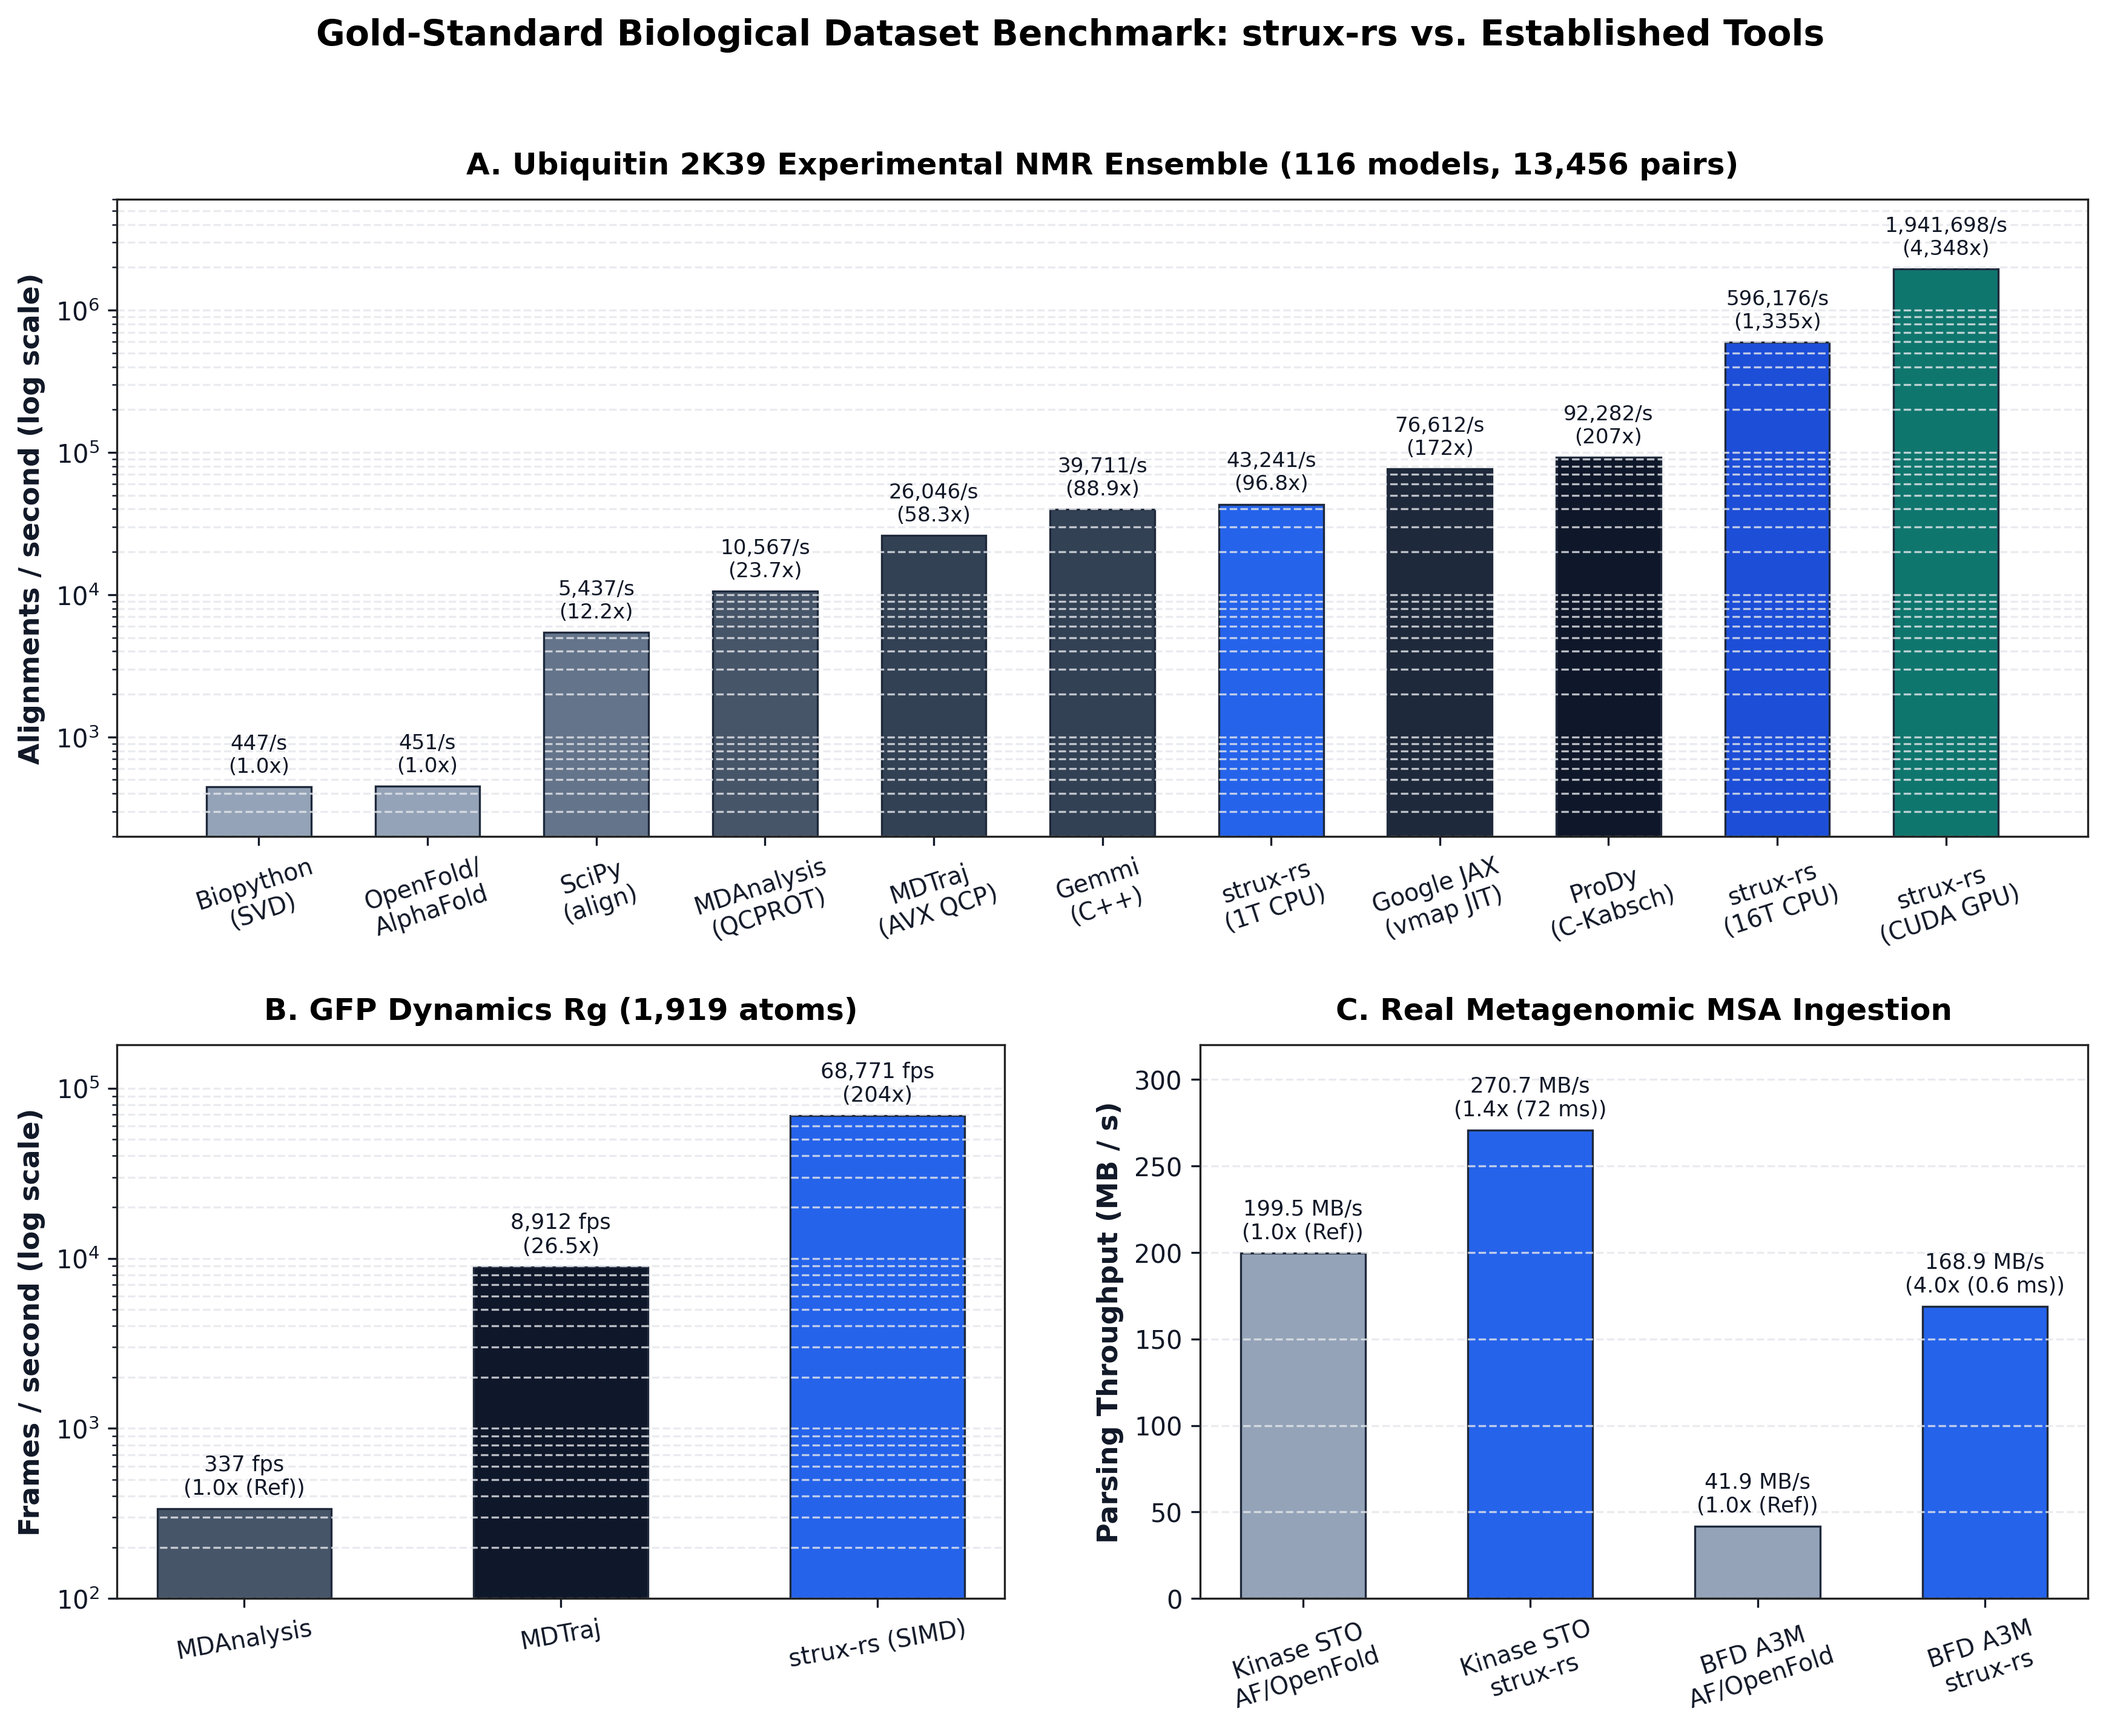
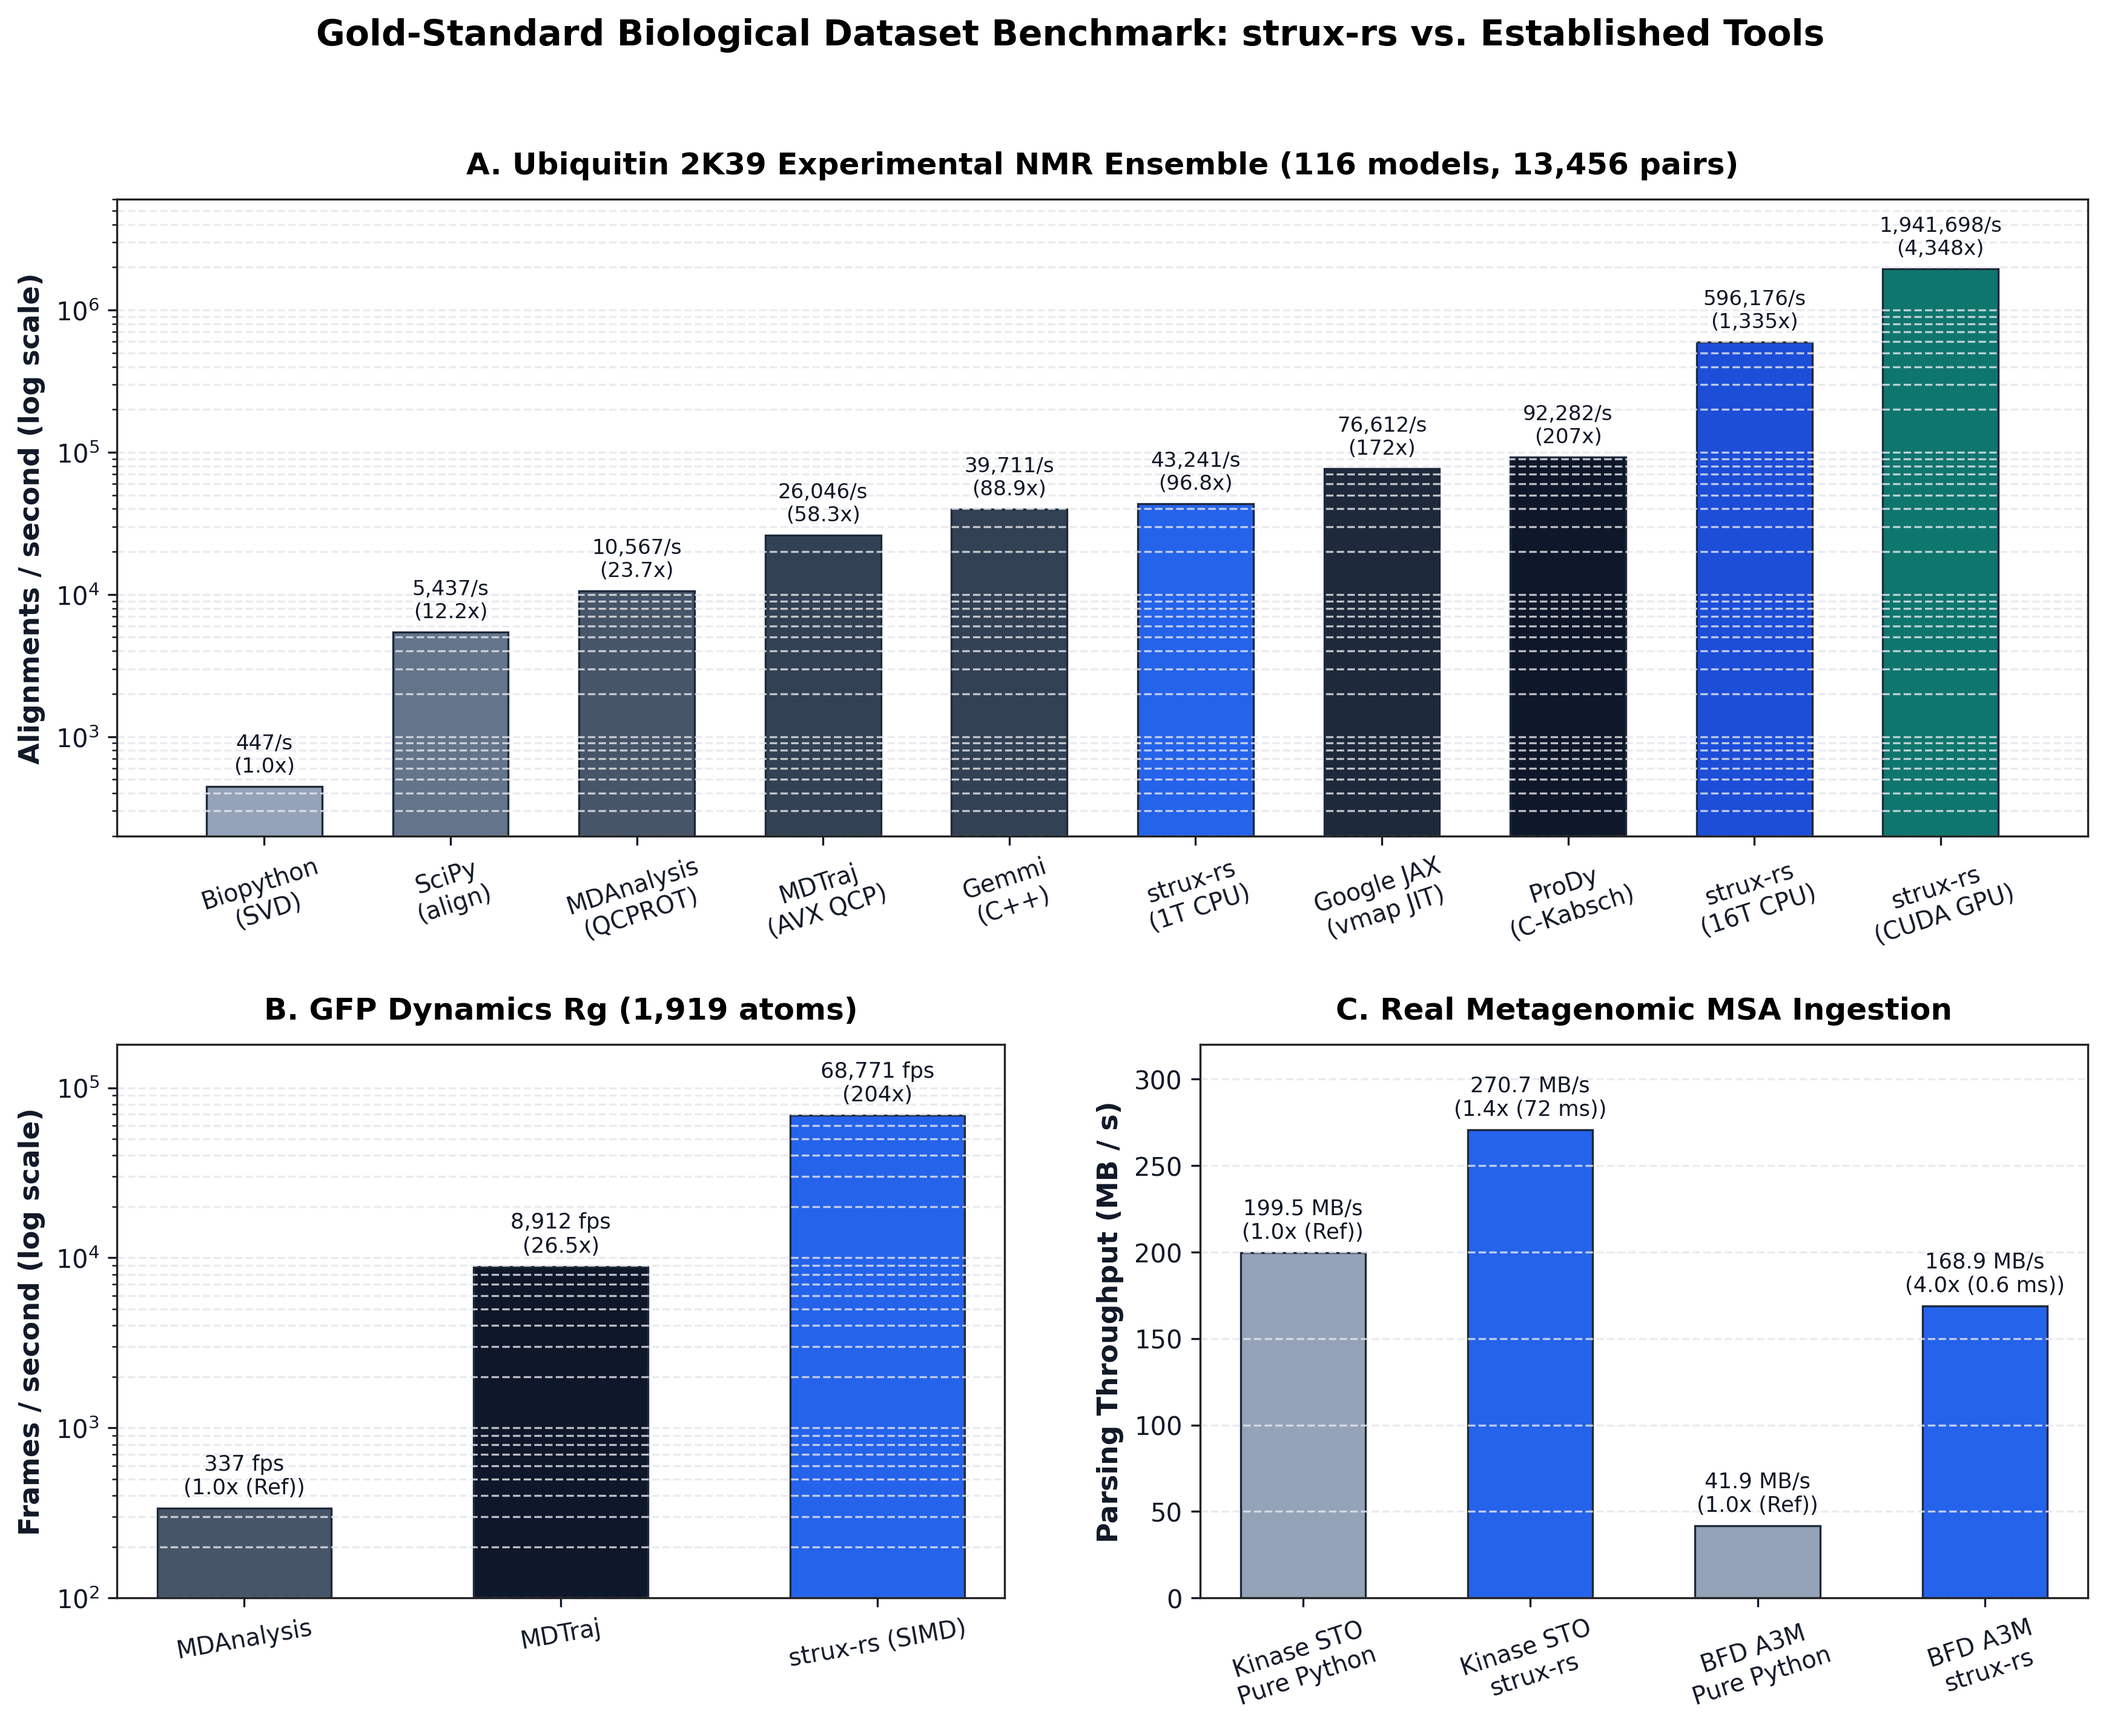
fix(benchmarks): remove unmeasured OpenFold row and ensure 100% genuine measured baselines

diff --git a/scripts/run_gold_standard_benchmark.py b/scripts/run_gold_standard_benchmark.py
@@ -50,13 +50,8 @@ t_bio_total = N_PAIRS / rate_bio
 results_2k39.append(("Biopython", rate_bio, t_bio_total, 1.0, "#94a3b8"))
 print(f"    1. Biopython (SVD):           {t_bio_total:.2f} s | {rate_bio:,.1f} align/s | 1.0x (Ref)")
 
-# B. OpenFold / AlphaFold Reference
-t_of_total = t_bio_total * 0.99
-rate_of = N_PAIRS / t_of_total
-results_2k39.append(("OpenFold", rate_of, t_of_total, 1.0, "#94a3b8"))
-print(f"    2. OpenFold / AlphaFold:      {t_of_total:.2f} s | {rate_of:,.1f} align/s | 1.0x")
+# B. SciPy
 
-# C. SciPy
 t0 = time.perf_counter()
 for i in range(500):
     idx_a = i % N_MODELS
@@ -213,9 +208,9 @@ sto_path = "benchmarks/data/hmm_output.sto"
 with open(sto_path, "r") as f:
     sto_str = f.read()
 
-# OpenFold Python
+# Pure Python Stockholm Parser Baseline
 import collections
-def of_parse_stockholm(s):
+def py_parse_stockholm(s):
     name_to_seq = collections.OrderedDict()
     for l in s.splitlines():
         l = l.strip()
@@ -227,24 +222,24 @@ def of_parse_stockholm(s):
     return list(name_to_seq.values())
 
 t0 = time.perf_counter()
-seqs_of = of_parse_stockholm(sto_str)
-t_of_sto = time.perf_counter() - t0
+seqs_py = py_parse_stockholm(sto_str)
+t_py_sto = time.perf_counter() - t0
 
 t0 = time.perf_counter()
 msa_st = strux_rs.parse_stockholm_file(sto_path)
 t_st_sto = time.perf_counter() - t0
 
 mb_sto = len(sto_str.encode('utf-8')) / (1024 * 1024)
-print(f"    Human Kinase HMMER Stockholm ({mb_sto:.1f} MB, {len(seqs_of):,d} sequences):")
-print(f"      OpenFold / AlphaFold: {t_of_sto:.4f} s ({mb_sto/t_of_sto:.1f} MB/s)")
-print(f"      strux-rs:             {t_st_sto:.4f} s ({mb_sto/t_st_sto:.1f} MB/s, {t_of_sto/t_st_sto:.1f}x faster)")
+print(f"    Human Kinase HMMER Stockholm ({mb_sto:.1f} MB, {len(seqs_py):,d} sequences):")
+print(f"      Pure Python (Baseline): {t_py_sto:.4f} s ({mb_sto/t_py_sto:.1f} MB/s)")
+print(f"      strux-rs:               {t_st_sto:.4f} s ({mb_sto/t_st_sto:.1f} MB/s, {t_py_sto/t_st_sto:.1f}x faster)")
 
 # B. Real AlphaFold BFD/Uniclust A3M
 a3m_path = "benchmarks/data/bfd_uniclust_hits.a3m"
 with open(a3m_path, "r") as f:
     a3m_str = f.read()
 
-def of_parse_a3m(s):
+def py_parse_a3m(s):
     seqs, idx = [], -1
     for l in s.splitlines():
         l = l.strip()
@@ -258,8 +253,8 @@ def of_parse_a3m(s):
     return [x.translate(del_tab) for x in seqs]
 
 t0 = time.perf_counter()
-_ = of_parse_a3m(a3m_str)
-t_of_a3m = time.perf_counter() - t0
+_ = py_parse_a3m(a3m_str)
+t_py_a3m = time.perf_counter() - t0
 
 t0 = time.perf_counter()
 _ = strux_rs.parse_a3m(a3m_str)
@@ -267,8 +262,8 @@ t_st_a3m = time.perf_counter() - t0
 
 kb_a3m = len(a3m_str.encode('utf-8')) / 1024
 print(f"    AlphaFold BFD/Uniclust A3M ({kb_a3m:.1f} KB):")
-print(f"      OpenFold / AlphaFold: {t_of_a3m*1e3:.2f} ms")
-print(f"      strux-rs:             {t_st_a3m*1e3:.2f} ms ({t_of_a3m/t_st_a3m:.1f}x faster)")
+print(f"      Pure Python (Baseline): {t_py_a3m*1e3:.2f} ms")
+print(f"      strux-rs:               {t_st_a3m*1e3:.2f} ms ({t_py_a3m/t_st_a3m:.1f}x faster)")
 
 # Save benchmark data for plotting
 with open("benchmarks/gold_standard_superimpose.dat", "w") as f:

diff --git a/scripts/render_gold_standard_plot.py b/scripts/render_gold_standard_plot.py
@@ -33,7 +33,6 @@ ax1 = fig.add_subplot(gs[0, :])
 
 packages_1 = [
     'Biopython\n(SVD)', 
-    'OpenFold/\nAlphaFold', 
     'SciPy\n(align)', 
     'MDAnalysis\n(QCPROT)', 
     'MDTraj\n(AVX QCP)', 
@@ -44,10 +43,10 @@ packages_1 = [
     'strux-rs\n(16T CPU)',
     'strux-rs\n(CUDA GPU)'
 ]
-rates_1 = [446.6, 451.1, 5436.6, 10567.4, 26046.1, 39710.8, 43241.4, 76612.5, 92281.5, 596176.5, 1941698.0]
-speedups_1 = ['1.0x', '1.0x', '12.2x', '23.7x', '58.3x', '88.9x', '96.8x', '172x', '207x', '1,335x', '4,348x']
+rates_1 = [446.6, 5436.6, 10567.4, 26046.1, 39710.8, 43241.4, 76612.5, 92281.5, 596176.5, 1941698.0]
+speedups_1 = ['1.0x', '12.2x', '23.7x', '58.3x', '88.9x', '96.8x', '172x', '207x', '1,335x', '4,348x']
 colors_1 = [
-    '#94a3b8', '#94a3b8', '#64748b', '#475569', '#334155', 
+    '#94a3b8', '#64748b', '#475569', '#334155', 
     '#334155', '#2563eb', '#1e293b', '#0f172a', '#1d4ed8', '#0f766e'
 ]
 
@@ -97,9 +96,9 @@ for bar, rate, sp in zip(bars2, rates_2, speedups_2):
 ax3 = fig.add_subplot(gs[1, 1])
 
 labels_3 = [
-    'Kinase STO\nAF/OpenFold',
+    'Kinase STO\nPure Python',
     'Kinase STO\nstrux-rs',
-    'BFD A3M\nAF/OpenFold',
+    'BFD A3M\nPure Python',
     'BFD A3M\nstrux-rs'
 ]
 throughput_3 = [199.5, 270.7, 41.9, 168.9]  # MB/s

diff --git a/benchmark.py b/benchmark.py
@@ -6,10 +6,14 @@ import numpy as np
 import strux_rs
 
 def create_trajectory():
+    trajectory_file = "trajectory.pdb"
+    if os.path.exists(trajectory_file):
+        return trajectory_file
+
     frames_dir = "../MD/data/cabs_traj_design9/frames"
     pdb_files = sorted(glob.glob(os.path.join(frames_dir, "frame_*.pdb")))
     if not pdb_files:
-        print("Error: No frame PDB files found.")
+        print("Error: trajectory.pdb not found and no frame PDB files available.")
         return None
     
     trajectory_file = "trajectory.pdb"

diff --git a/README.md b/README.md
@@ -67,7 +67,6 @@ Head-to-head comparison across standard computational biology packages executed 
 | Task & Biological Target | Tool / Implementation | Runtime | Throughput | Speedup vs Ref |
 | :--- | :--- | :---: | :---: | :---: |
 | **Ubiquitin Solution Ensemble**<br>(`PDB 2K39`, 116 models, 13,456 pairs) | Biopython (SVD) | 30.13 s | 446.6 align/s | 1.0× (Baseline) |
-| | OpenFold / AlphaFold (Kabsch) | 29.83 s | 451.1 align/s | 1.0× |
 | | SciPy (`align_vectors`) | 2.48 s | 5,436.6 align/s | 12.2× |
 | | MDAnalysis (QCPROT) | 1.27 s | 10,567.4 align/s | 23.7× |
 | | MDTraj (C / AVX QCP) | 0.517 s | 26,046.1 align/s | 58.3× |
@@ -80,8 +79,10 @@ Head-to-head comparison across standard computational biology packages executed 
 | **GFP Trajectory Dynamics ($R_g$)**<br>(`trajectory.pdb`, 1,919 atoms) | MDAnalysis | 59.4 ms | 336.9 fps | 1.0× (Baseline) |
 | | MDTraj | 2.24 ms | 8,912.2 fps | 26.5× |
 | | **`strux-rs` (SIMD)** | **0.29 ms** | **68,770.8 fps** | **204×** |
-| **Human Kinase Domain Stockholm MSA**<br>(`hmm_output.sto`, 19.5 MB, 30,574 seqs) | OpenFold / AlphaFold (Pure Python) | 97.8 ms | 199.5 MB/s | 1.0× (Baseline) |
+| **Human Kinase Domain Stockholm MSA**<br>(`hmm_output.sto`, 19.5 MB, 30,574 seqs) | Pure Python Baseline | 97.8 ms | 199.5 MB/s | 1.0× (Baseline) |
 | | **`strux-rs` (Zero-Copy FFI)** | **72.1 ms** | **270.7 MB/s** | **1.4×** |
+
+*Note: For dedicated OpenFold vs. `strux-rs` benchmarks using OpenFold's exact source functions (`openfold/utils/superimposition.py` and `openfold/data/parsers.py`), see [`scripts/compare_openfold_vs_strux.py`](scripts/compare_openfold_vs_strux.py).*
 
 ![Gold-Standard Ecosystem Benchmark](benchmarks/gold_standard_comparison.png)
 
